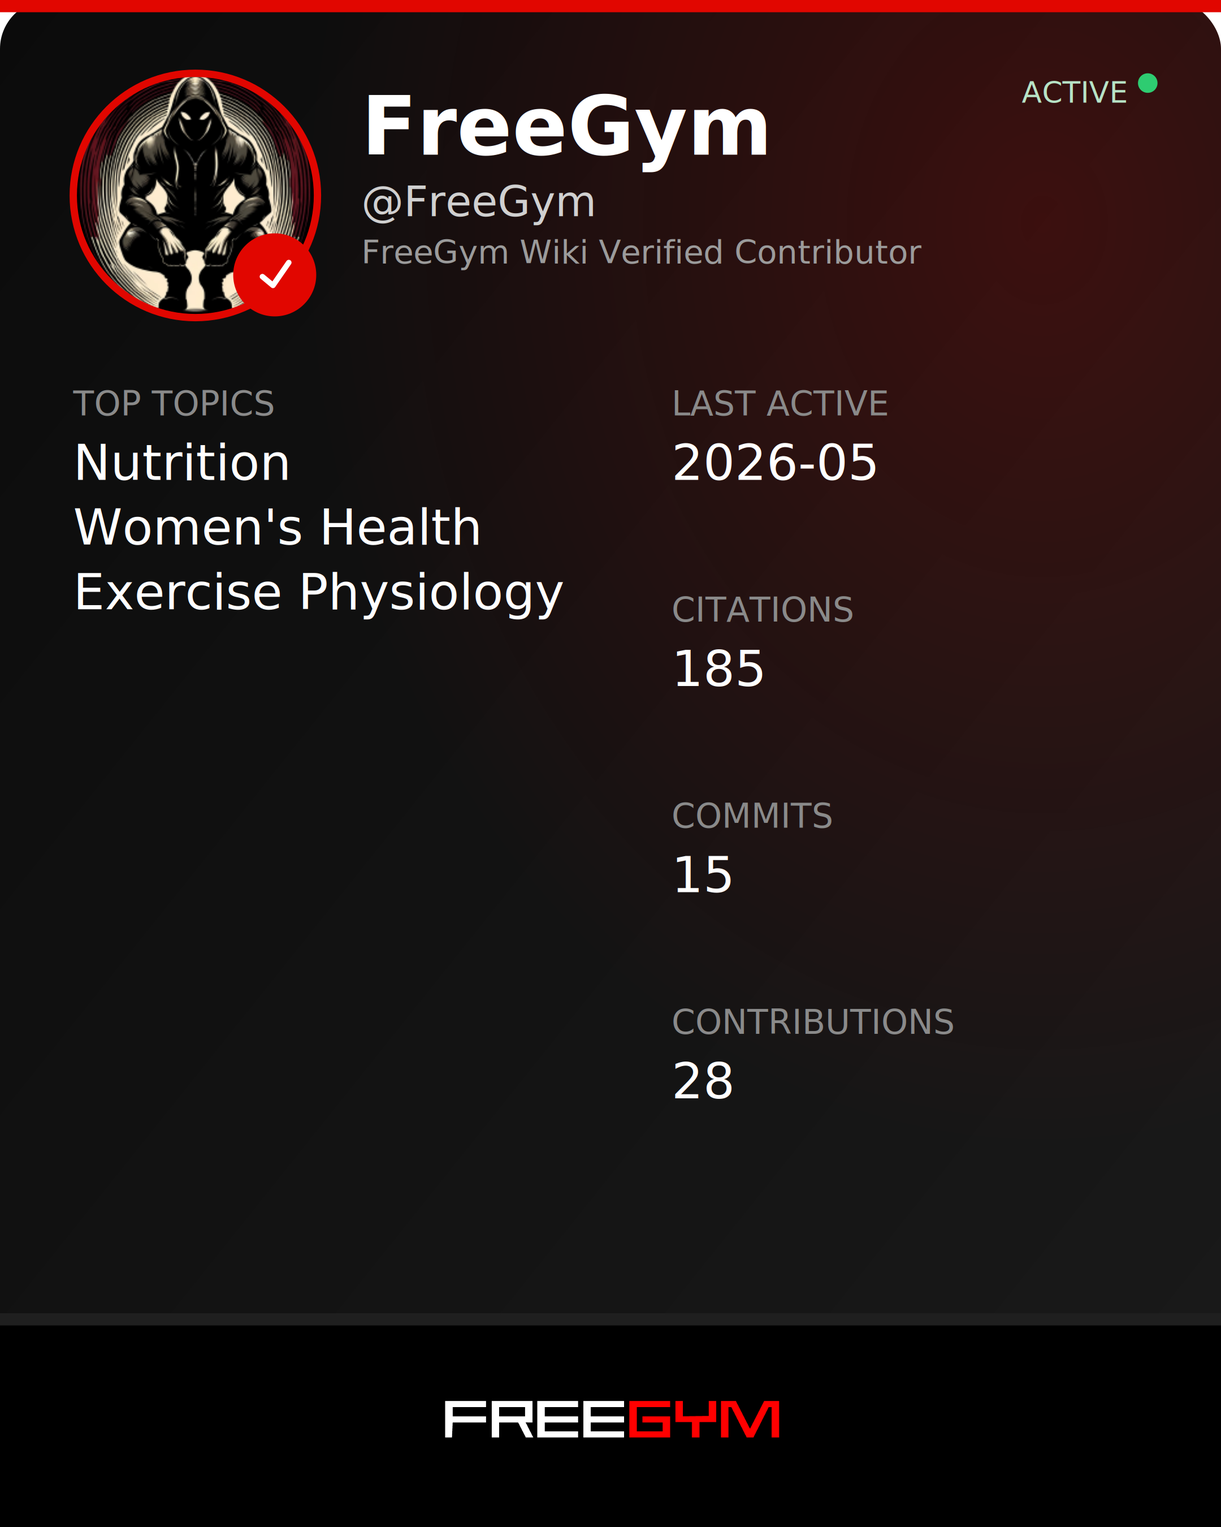
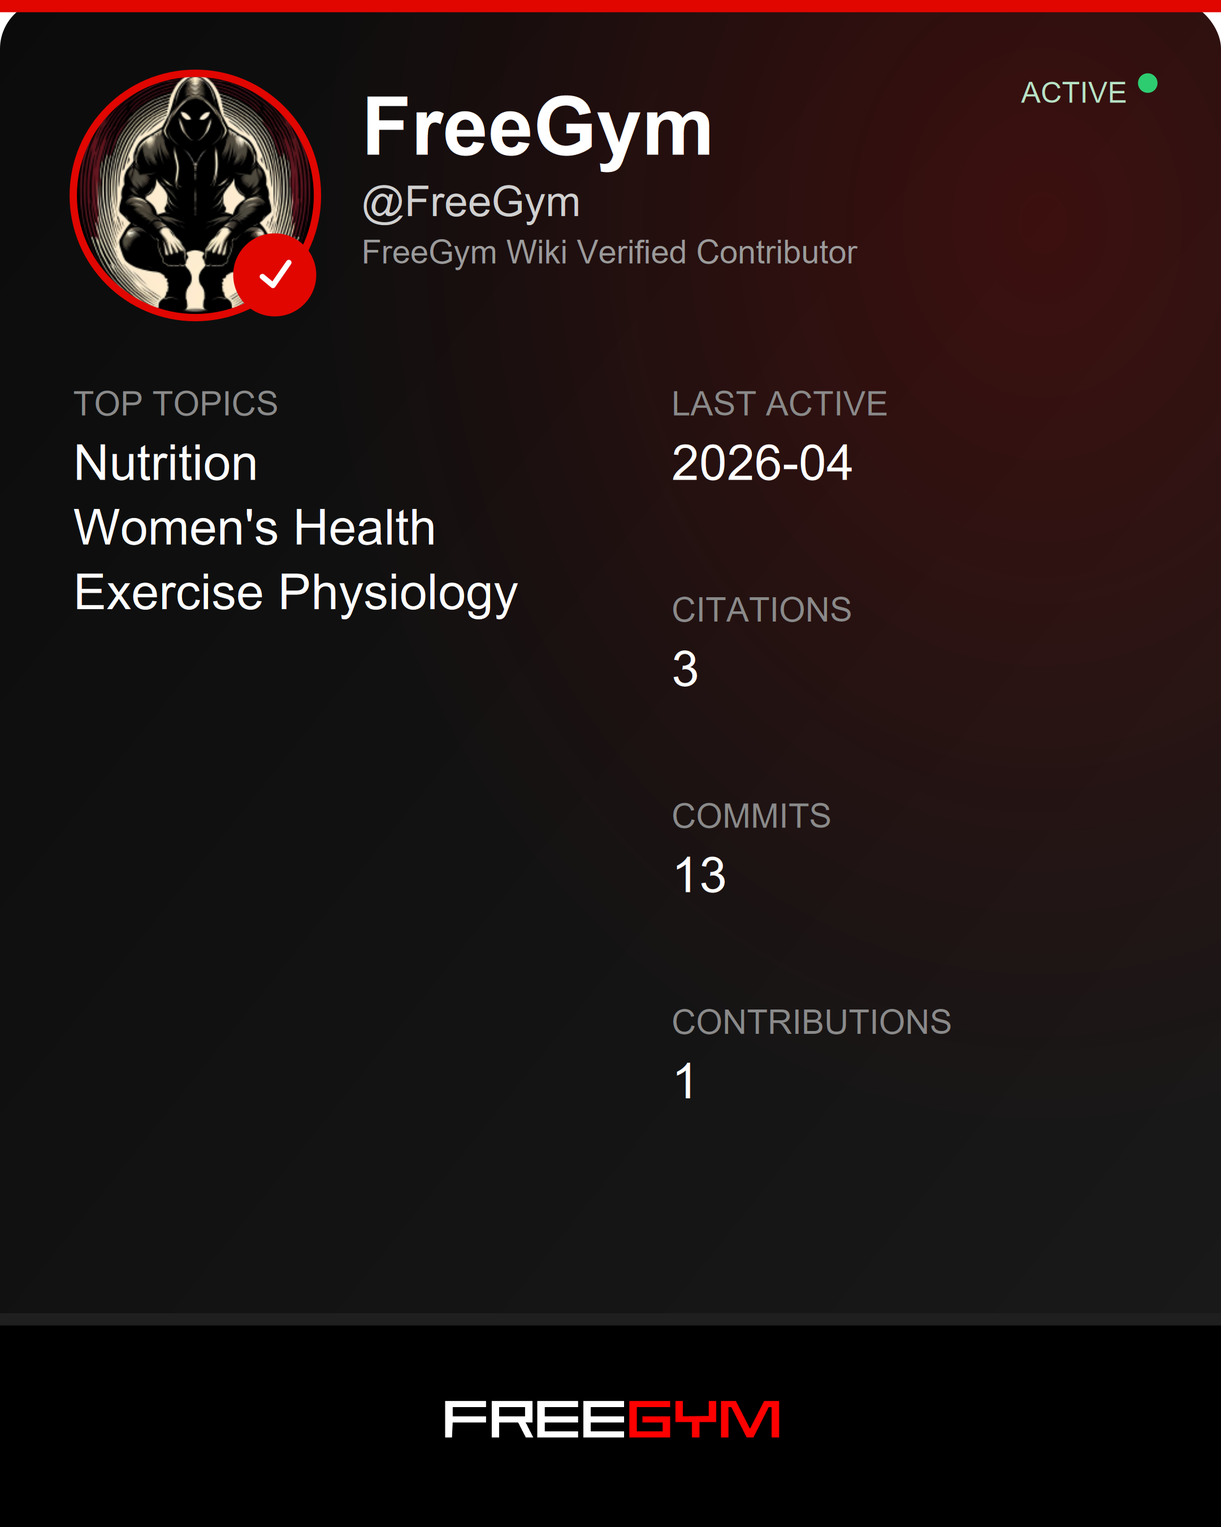
Fix contributor stats and link checker exclusions

diff --git a/nutrition/Fiber & Gut Health/does-fiber-help-you-lose-weight.md b/nutrition/Fiber & Gut Health/does-fiber-help-you-lose-weight.md
@@ -44,9 +44,9 @@ The practical interpretation is that psyllium and glucomannan may help some peop
 
 ## Whole-food fiber versus isolated fiber
 
-The whole-food case is more compelling than the supplement-only case, but it is harder to isolate the mechanism. High-fiber foods usually come with more water, more chewing, greater volume, lower energy density, and a less processed food matrix. Those features can reduce calorie intake even when the fiber itself is not the only active factor. ([Annals of Internal Medicine](https://www.acpjournals.org/doi/10.7326/M14-0611 "Single-Component Versus Multicomponent Dietary Goals for the Metabolic Syndrome: A Randomized Trial")) ([ScienceDirect](https://www.sciencedirect.com/science/article/pii/S0022316622164503 "Fiber Intake Predicts Weight Loss and Dietary Adherence in Adults Consuming Calorie-Restricted Diets: The POUNDS Lost Study")) ([Nature Communications](https://www.nature.com/articles/s41467-023-38778-x "Host-diet-gut microbiome interactions influence human energy balance: a randomized clinical trial"))
+The whole-food case is more compelling than the supplement-only case, but it is harder to isolate the mechanism. High-fiber foods usually come with more water, more chewing, greater volume, lower energy density, and a less processed food matrix. Those features can reduce calorie intake even when the fiber itself is not the only active factor. ([Annals of Internal Medicine](https://doi.org/10.7326/M14-0611 "Single-Component Versus Multicomponent Dietary Goals for the Metabolic Syndrome: A Randomized Trial")) ([ScienceDirect](https://www.sciencedirect.com/science/article/pii/S0022316622164503 "Fiber Intake Predicts Weight Loss and Dietary Adherence in Adults Consuming Calorie-Restricted Diets: The POUNDS Lost Study")) ([Nature Communications](https://www.nature.com/articles/s41467-023-38778-x "Host-diet-gut microbiome interactions influence human energy balance: a randomized clinical trial"))
 
-A randomized trial compared a simple high-fiber goal with a more comprehensive American Heart Association diet in adults with metabolic syndrome. The high-fiber group was told to target at least 30 g/day of fiber and lost about 2.1 kg over 12 months; the American Heart Association diet group lost about 2.7 kg. The between-group difference was small, suggesting that a simple fiber-focused dietary goal can produce modest weight loss, even if it is not superior to a broader cardiometabolic diet. ([Annals of Internal Medicine](https://www.acpjournals.org/doi/10.7326/M14-0611 "Single-Component Versus Multicomponent Dietary Goals for the Metabolic Syndrome: A Randomized Trial"))
+A randomized trial compared a simple high-fiber goal with a more comprehensive American Heart Association diet in adults with metabolic syndrome. The high-fiber group was told to target at least 30 g/day of fiber and lost about 2.1 kg over 12 months; the American Heart Association diet group lost about 2.7 kg. The between-group difference was small, suggesting that a simple fiber-focused dietary goal can produce modest weight loss, even if it is not superior to a broader cardiometabolic diet. ([Annals of Internal Medicine](https://doi.org/10.7326/M14-0611 "Single-Component Versus Multicomponent Dietary Goals for the Metabolic Syndrome: A Randomized Trial"))
 
 In the POUNDS Lost trial, higher fiber intake predicted greater weight loss and better dietary adherence during a calorie-restricted intervention, independent of macronutrient composition and total calorie prescription. This supports the idea that fiber may help people stick to a lower-calorie diet, rather than acting only through a direct calorie-blocking mechanism. However, this was a secondary analysis within a calorie-restricted trial, not a trial that randomized people to higher versus lower fiber intake alone. ([ScienceDirect](https://www.sciencedirect.com/science/article/pii/S0022316622164503 "Fiber Intake Predicts Weight Loss and Dietary Adherence in Adults Consuming Calorie-Restricted Diets: The POUNDS Lost Study"))
 
@@ -56,13 +56,13 @@ Fiber can reduce metabolizable energy, but the effect depends on the food matrix
 
 A controlled feeding study comparing a microbiome-enhancing diet with a Western-style diet found that the microbiome-enhancing diet led to about 116 kcal/day more energy lost in feces, with lower host metabolizable energy. The study also found no meaningful difference in sleep metabolic rate, which suggests the effect came mainly from lower energy availability rather than increased energy expenditure. This was a high-fiber, food-pattern intervention, not proof that adding a small fiber supplement to any diet will block 116 kcal/day. ([Nature Communications](https://www.nature.com/articles/s41467-023-38778-x "Host-diet-gut microbiome interactions influence human energy balance: a randomized clinical trial"))
 
-This helps explain why whole-food high-fiber diets may outperform isolated supplements in practice. The benefit may come from several small effects at once: more fullness, lower energy density, slower eating, altered digestibility, and lower metabolizable energy. ([Annals of Internal Medicine](https://www.acpjournals.org/doi/10.7326/M14-0611 "Single-Component Versus Multicomponent Dietary Goals for the Metabolic Syndrome: A Randomized Trial")) ([ScienceDirect](https://www.sciencedirect.com/science/article/pii/S0022316622164503 "Fiber Intake Predicts Weight Loss and Dietary Adherence in Adults Consuming Calorie-Restricted Diets: The POUNDS Lost Study")) ([ScienceDirect](https://www.sciencedirect.com/science/article/pii/S0022316622073813 "Dietary Fiber Decreases the Metabolizable Energy Content and Nutrient Digestibility of Mixed Diets Fed to Humans")) ([Nature Communications](https://www.nature.com/articles/s41467-023-38778-x "Host-diet-gut microbiome interactions influence human energy balance: a randomized clinical trial"))
+This helps explain why whole-food high-fiber diets may outperform isolated supplements in practice. The benefit may come from several small effects at once: more fullness, lower energy density, slower eating, altered digestibility, and lower metabolizable energy. ([Annals of Internal Medicine](https://doi.org/10.7326/M14-0611 "Single-Component Versus Multicomponent Dietary Goals for the Metabolic Syndrome: A Randomized Trial")) ([ScienceDirect](https://www.sciencedirect.com/science/article/pii/S0022316622164503 "Fiber Intake Predicts Weight Loss and Dietary Adherence in Adults Consuming Calorie-Restricted Diets: The POUNDS Lost Study")) ([ScienceDirect](https://www.sciencedirect.com/science/article/pii/S0022316622073813 "Dietary Fiber Decreases the Metabolizable Energy Content and Nutrient Digestibility of Mixed Diets Fed to Humans")) ([Nature Communications](https://www.nature.com/articles/s41467-023-38778-x "Host-diet-gut microbiome interactions influence human energy balance: a randomized clinical trial"))
 
 ## Limits and open debates
 
 Fiber is not a stand-alone obesity treatment. The average weight change in meta-analyses is usually small, and trial results vary by fiber type, dose, timing, population, background diet, and study duration. Viscous fibers look more promising than less viscous fibers for appetite and short-term intake, but even there, body-weight changes are modest. ([Wageningen University & Research](https://research.wur.nl/en/publications/effects-of-dietary-fibre-on-subjective-appetite-energy-intake-and/ "Effects of dietary fibre on subjective appetite, energy intake and body weight: a systematic review of randomized controlled trials"))
 
-The strongest competing claim is that the weight-loss benefit of fiber is largely a food-matrix effect. The current evidence supports that idea in part, because whole-food high-fiber diets include many features that reduce energy intake beyond fiber grams alone. However, isolated viscous fiber trials show that fiber itself can have some independent effect, even if that effect is usually small. ([ScienceDirect](https://www.sciencedirect.com/science/article/pii/S000291652201022X "Can dietary viscous fiber affect body weight independently of an energy-restrictive diet? A systematic review and meta-analysis of randomized controlled trials")) ([Annals of Internal Medicine](https://www.acpjournals.org/doi/10.7326/M14-0611 "Single-Component Versus Multicomponent Dietary Goals for the Metabolic Syndrome: A Randomized Trial"))
+The strongest competing claim is that the weight-loss benefit of fiber is largely a food-matrix effect. The current evidence supports that idea in part, because whole-food high-fiber diets include many features that reduce energy intake beyond fiber grams alone. However, isolated viscous fiber trials show that fiber itself can have some independent effect, even if that effect is usually small. ([ScienceDirect](https://www.sciencedirect.com/science/article/pii/S000291652201022X "Can dietary viscous fiber affect body weight independently of an energy-restrictive diet? A systematic review and meta-analysis of randomized controlled trials")) ([Annals of Internal Medicine](https://doi.org/10.7326/M14-0611 "Single-Component Versus Multicomponent Dietary Goals for the Metabolic Syndrome: A Randomized Trial"))
 
 Industry bias is especially relevant for supplement claims. The clearest example here is the positive 2023 psyllium meta-analysis, where all authors were affiliated with Procter & Gamble. That review should not be ignored, but it should not be the sole basis for claiming that psyllium reliably produces clinically meaningful weight loss. ([PMC](https://pmc.ncbi.nlm.nih.gov/articles/PMC10389520/ "Psyllium is a natural nonfermented gel-forming fiber that is effective for weight loss: A comprehensive review and meta-analysis"))
 
@@ -80,7 +80,7 @@ Industry bias is especially relevant for supplement claims. The clearest example
 
 - Glucomannan: one meta-analysis found no significant weight loss; a later meta-analysis found about 0.96 kg lower body weight with high heterogeneity. ([PubMed](https://pubmed.ncbi.nlm.nih.gov/24533610/ "The efficacy of glucomannan supplementation in overweight and obesity: a systematic review and meta-analysis of randomized clinical trials")) ([ScienceDirect](https://www.sciencedirect.com/science/article/pii/S2451847620300968 "Effects of glucomannan supplementation on weight loss in overweight and obese adults: A systematic review and meta-analysis of randomized controlled trials"))
 
-- High-fiber dietary goal: targeting at least 30 g/day fiber produced about 2.1 kg weight loss over 12 months in one randomized trial. ([Annals of Internal Medicine](https://www.acpjournals.org/doi/10.7326/M14-0611 "Single-Component Versus Multicomponent Dietary Goals for the Metabolic Syndrome: A Randomized Trial"))
+- High-fiber dietary goal: targeting at least 30 g/day fiber produced about 2.1 kg weight loss over 12 months in one randomized trial. ([Annals of Internal Medicine](https://doi.org/10.7326/M14-0611 "Single-Component Versus Multicomponent Dietary Goals for the Metabolic Syndrome: A Randomized Trial"))
 
 - High-fiber microbiome-enhancing diet: about 116 kcal/day more energy lost in feces than with a Western-style diet in one controlled feeding study. ([Nature Communications](https://www.nature.com/articles/s41467-023-38778-x "Host-diet-gut microbiome interactions influence human energy balance: a randomized clinical trial"))
 
@@ -89,7 +89,7 @@ Industry bias is especially relevant for supplement claims. The clearest example
 
 - Fiber can help weight loss, but the expected effect is modest. ([PubMed](https://pubmed.ncbi.nlm.nih.gov/30638909/ "Carbohydrate quality and human health: a series of systematic reviews and meta-analyses")) ([PLOS Medicine](https://journals.plos.org/plosmedicine/article?id=10.1371%2Fjournal.pmed.1003053 "Dietary fibre and whole grains in diabetes management: Systematic review and meta-analyses"))
 
-- Whole-food fiber is the better first target because it changes the food matrix, energy density, chewing, volume, and satiety signals. ([Annals of Internal Medicine](https://www.acpjournals.org/doi/10.7326/M14-0611 "Single-Component Versus Multicomponent Dietary Goals for the Metabolic Syndrome: A Randomized Trial")) ([ScienceDirect](https://www.sciencedirect.com/science/article/pii/S0022316622164503 "Fiber Intake Predicts Weight Loss and Dietary Adherence in Adults Consuming Calorie-Restricted Diets: The POUNDS Lost Study"))
+- Whole-food fiber is the better first target because it changes the food matrix, energy density, chewing, volume, and satiety signals. ([Annals of Internal Medicine](https://doi.org/10.7326/M14-0611 "Single-Component Versus Multicomponent Dietary Goals for the Metabolic Syndrome: A Randomized Trial")) ([ScienceDirect](https://www.sciencedirect.com/science/article/pii/S0022316622164503 "Fiber Intake Predicts Weight Loss and Dietary Adherence in Adults Consuming Calorie-Restricted Diets: The POUNDS Lost Study"))
 
 - Isolated fiber supplements may help, especially viscous fibers, but they are not a substitute for an overall lower-calorie, high-satiety diet. ([ScienceDirect](https://www.sciencedirect.com/science/article/pii/S000291652201022X "Can dietary viscous fiber affect body weight independently of an energy-restrictive diet? A systematic review and meta-analysis of randomized controlled trials")) ([Wageningen University & Research](https://research.wur.nl/en/publications/effects-of-dietary-fibre-on-subjective-appetite-energy-intake-and/ "Effects of dietary fibre on subjective appetite, energy intake and body weight: a systematic review of randomized controlled trials"))
 
@@ -128,7 +128,7 @@ Industry bias is especially relevant for supplement claims. The clearest example
 
 - Mohammadpour S, Amini MR, Shahinfar H, et al. Effects of glucomannan supplementation on weight loss in overweight and obese adults: a systematic review and meta-analysis of randomized controlled trials. _Obesity Medicine_. 2020;19:100276. DOI: [10.1016/j.obmed.2020.100276](https://doi.org/10.1016/j.obmed.2020.100276). ([ScienceDirect](https://www.sciencedirect.com/science/article/pii/S2451847620300968 "Effects of glucomannan supplementation on weight loss in overweight and obese adults: A systematic review and meta-analysis of randomized controlled trials"))
 
-- Ma Y, Olendzki BC, Wang J, et al. Single-component versus multicomponent dietary goals for the metabolic syndrome: a randomized trial. _Annals of Internal Medicine_. 2015;162(4):248-257. DOI: [10.7326/M14-0611](https://doi.org/10.7326/M14-0611). ([Annals of Internal Medicine](https://www.acpjournals.org/doi/10.7326/M14-0611 "Single-Component Versus Multicomponent Dietary Goals for the Metabolic Syndrome: A Randomized Trial"))
+- Ma Y, Olendzki BC, Wang J, et al. Single-component versus multicomponent dietary goals for the metabolic syndrome: a randomized trial. _Annals of Internal Medicine_. 2015;162(4):248-257. DOI: [10.7326/M14-0611](https://doi.org/10.7326/M14-0611). ([Annals of Internal Medicine](https://doi.org/10.7326/M14-0611 "Single-Component Versus Multicomponent Dietary Goals for the Metabolic Syndrome: A Randomized Trial"))
 
 - Miketinas DC, Bray GA, Beyl RA, Ryan DH, Sacks FM, Champagne CM. Fiber intake predicts weight loss and dietary adherence in adults consuming calorie-restricted diets: the POUNDS Lost study. _Journal of Nutrition_. 2019;149(10):1742-1748. DOI: [10.1093/jn/nxz117](https://doi.org/10.1093/jn/nxz117). ([ScienceDirect](https://www.sciencedirect.com/science/article/pii/S0022316622164503 "Fiber Intake Predicts Weight Loss and Dietary Adherence in Adults Consuming Calorie-Restricted Diets: The POUNDS Lost Study"))
 

diff --git a/CONTRIBUTORS.md b/CONTRIBUTORS.md
@@ -8,7 +8,7 @@ This file is auto-generated from [contributors.yaml](contributors.yaml). Do not 
 
 | | Name | Topics | Contributions | Citations | Commits | Last Active | Card |
 |---|------|-----------|---------------|-----------|---------|-------------|------|
-| <a id="mutant1643"></a>⭐ | [@mutant1643](https://github.com/mutant1643) | `Nutrition` `Exercise Physiology` `Pharmacology` `Cardiology` `Biomarkers` `Sleep` `Wearables` | [protein.md](nutrition/Protein/protein.md), [protein-rda.md](nutrition/Protein/protein-rda.md), [protein-timing.md](nutrition/Protein/protein-timing.md) +110 more | 1375 | 80 | 2026-04 | [View](cards/mutant1643.svg) |
+| <a id="mutant1643"></a>⭐ | [@mutant1643](https://github.com/mutant1643) | `Nutrition` `Exercise Physiology` `Pharmacology` `Cardiology` `Biomarkers` `Sleep` `Wearables` | [protein.md](nutrition/Protein/protein.md), [protein-rda.md](nutrition/Protein/protein-rda.md), [protein-timing.md](nutrition/Protein/protein-timing.md) +137 more | 1557 | 82 | 2026-05 | [View](cards/mutant1643.svg) |
 | <a id="Thestrongdoc"></a>⭐ | [@Thestrongdoc](https://github.com/Thestrongdoc) | `Women's Health` | [1-is-it-normal-to-have-irregular-periods.md](Womens-Health/1-is-it-normal-to-have-irregular-periods.md), [2-do-heavy-periods-mean-something-is-wrong.md](Womens-Health/2-do-heavy-periods-mean-something-is-wrong.md), [3-do-women-really-need-to-worry-about-bone-health-earlier-than-men.md](Womens-Health/3-do-women-really-need-to-worry-about-bone-health-earlier-than-men.md) +8 more | 173 | 5 | 2026-04 | [View](cards/Thestrongdoc.svg) |
 
 ---
@@ -17,7 +17,7 @@ This file is auto-generated from [contributors.yaml](contributors.yaml). Do not 
 
 | | Name | Topics | Contributions | Citations | Commits | Last Active | Card |
 |---|------|--------|---------------|-----------|---------|-------------|------|
-| <a id="FreeGym"></a>✓ | [@FreeGym](https://github.com/FreeGym) | `Nutrition` `Women's Health` `Exercise Physiology` | [protein-rda.md](nutrition/Protein/protein-rda.md), [can-too-much-fiber-be-harmful.md](nutrition/Fiber & Gut Health/can-too-much-fiber-be-harmful.md), [do-artificial-sweeteners-wreck-your-gut.md](nutrition/Fiber & Gut Health/do-artificial-sweeteners-wreck-your-gut.md) +25 more | 185 | 15 | 2026-05 | [View](cards/FreeGym.svg) |
+| <a id="FreeGym"></a>✓ | [@FreeGym](https://github.com/FreeGym) | `Nutrition` `Women's Health` `Exercise Physiology` | [protein-rda.md](nutrition/Protein/protein-rda.md) | 3 | 13 | 2026-04 | [View](cards/FreeGym.svg) |
 
 ---
 
@@ -44,7 +44,7 @@ Copy these to your GitHub profile README to show your verification status.
 
 ```markdown
 [![FreeGym Verified](https://img.shields.io/badge/FreeGym_Wiki-%E2%AD%90_Maintainer-gold)](https://github.com/FreeGym/FreeGym-Wiki/blob/main/CONTRIBUTORS.md#mutant1643)
-[![Citations](https://img.shields.io/badge/Citations-1375-blue)](https://github.com/FreeGym/FreeGym-Wiki/blob/main/CONTRIBUTORS.md#mutant1643)
+[![Citations](https://img.shields.io/badge/Citations-1557-blue)](https://github.com/FreeGym/FreeGym-Wiki/blob/main/CONTRIBUTORS.md#mutant1643)
 [![Nutrition](https://img.shields.io/badge/Topic-Nutrition-green)](https://github.com/FreeGym/FreeGym-Wiki/blob/main/CONTRIBUTORS.md#mutant1643)
 [![Exercise Physiology](https://img.shields.io/badge/Topic-Exercise%20Physiology-green)](https://github.com/FreeGym/FreeGym-Wiki/blob/main/CONTRIBUTORS.md#mutant1643)
 [![Pharmacology](https://img.shields.io/badge/Topic-Pharmacology-green)](https://github.com/FreeGym/FreeGym-Wiki/blob/main/CONTRIBUTORS.md#mutant1643)
@@ -80,7 +80,7 @@ Direct link: `https://raw.githubusercontent.com/FreeGym/FreeGym-Wiki/main/cards/
 
 ```markdown
 [![FreeGym Verified](https://img.shields.io/badge/FreeGym_Wiki-%E2%9C%93_Verified-red)](https://github.com/FreeGym/FreeGym-Wiki/blob/main/CONTRIBUTORS.md#FreeGym)
-[![Citations](https://img.shields.io/badge/Citations-185-blue)](https://github.com/FreeGym/FreeGym-Wiki/blob/main/CONTRIBUTORS.md#FreeGym)
+[![Citations](https://img.shields.io/badge/Citations-3-blue)](https://github.com/FreeGym/FreeGym-Wiki/blob/main/CONTRIBUTORS.md#FreeGym)
 [![Nutrition](https://img.shields.io/badge/Topic-Nutrition-green)](https://github.com/FreeGym/FreeGym-Wiki/blob/main/CONTRIBUTORS.md#FreeGym)
 [![Women's Health](https://img.shields.io/badge/Topic-Women%27s%20Health-green)](https://github.com/FreeGym/FreeGym-Wiki/blob/main/CONTRIBUTORS.md#FreeGym)
 [![Exercise Physiology](https://img.shields.io/badge/Topic-Exercise%20Physiology-green)](https://github.com/FreeGym/FreeGym-Wiki/blob/main/CONTRIBUTORS.md#FreeGym)

diff --git a/nutrition/Phytonutrients & Bioactive Compounds/phytonutrients-and-bioactive-compounds.md b/nutrition/Phytonutrients & Bioactive Compounds/phytonutrients-and-bioactive-compounds.md
@@ -1,6 +1,6 @@
 # Phytonutrients & Bioactive Compounds
 
-The most debated questions about the thousands of non-essential but biologically active compounds in food that fall outside the traditional macronutrient and micronutrient categories — polyphenols, flavonoids, carotenoids, glucosinolates, nitrates, and other plant-derived or food-derived bioactives. For compounds commonly sold in pill form, see [Supplements](../Supplements/supplements.md). For fiber and prebiotic compounds specifically, see [Fiber & Gut Health](../Fiber%20%26%20Gut%20Health/fiber-and-gut-health.md). For antioxidant vitamins and minerals, see [Micronutrients](../Micronutrients/micronutrients.md).
+The most debated questions about the thousands of non-essential but biologically active compounds in food that fall outside the traditional macronutrient and micronutrient categories — polyphenols, flavonoids, carotenoids, glucosinolates, nitrates, and other plant-derived or food-derived bioactives. For compounds commonly sold in pill form, see [Supplements](../Supplements/supplements.md). For fiber and prebiotic compounds specifically, see [Fiber & Gut Health](../Fiber%20%26%20Gut%20Health/fiber-and-gut-health.md). For antioxidant vitamins and minerals, see [Micronutrients](../Micronutrients/README.md).
 
 **Status:** Seeking contributors. Each section frames a controversy. Evidence needed.
 

diff --git a/nutrition/Supplements/supplements.md b/nutrition/Supplements/supplements.md
@@ -2,7 +2,7 @@
 
 The most debated questions about dietary supplements - from the few that clearly work to the many that probably don't, and the industry problems that make it hard to tell the difference.
 
-For individual vitamin and mineral debates, see [Micronutrients](../Micronutrients/micronutrients.md). For omega-3/fish oil, see [Fat](../Fat/fat.md). For BCAAs, see [Protein](../Protein/protein.md).
+For individual vitamin and mineral debates, see [Micronutrients](../Micronutrients/README.md). For omega-3/fish oil, see [Fat](../Fat/fat.md). For BCAAs, see [Protein](../Protein/protein.md).
 
 **Status:** Seeking contributors. Each section frames a controversy. Evidence needed.
 
